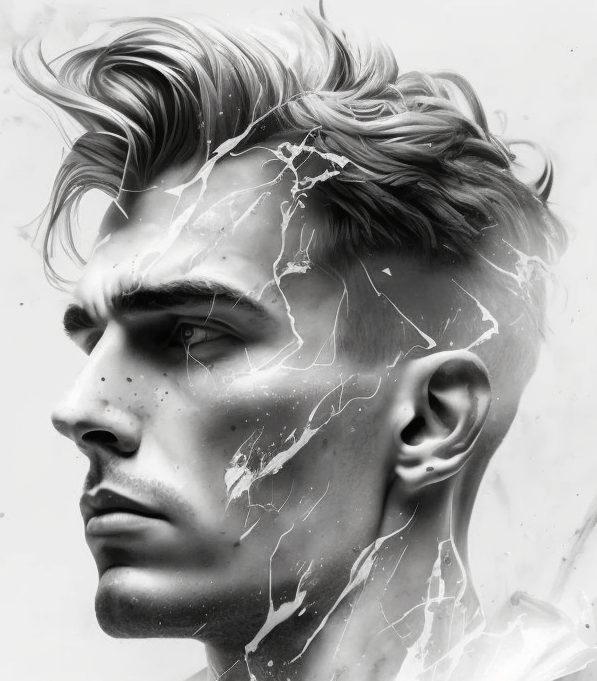
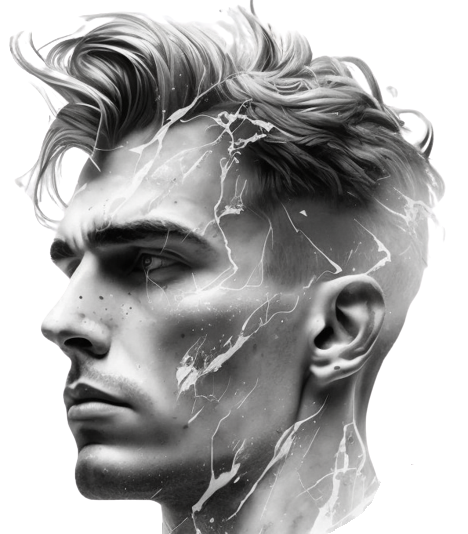
commit

diff --git a/assets/style/style.css b/assets/style/style.css
@@ -1,35 +1,143 @@
-body{
-    background-image: url('../img/Fond-marbre.png');
-    background-size: cover;
-    height: 100vh;
-}
-
 *{
     margin:0;
     padding:0;
 }
 
-h1{
-    font-size: 6rem;
+body{
+    overflow: hidden;
 }
 
-p{
-    font-size: 3rem;
-}
+/* Section header */
 
 header{
-    display: flex;
-    align-items: center;
-    justify-content: center;
+    background-image: url('../img/Fond-marbre.png');
+    background-size: cover;
     height: 100vh;
 }
 
-.name{
+header ul{
     display: flex;
-    align-items: center;
-    flex-direction: column;
+    gap: 5rem;
+    list-style-type: none;
 }
 
-.name, .portrait{
-    width:50vw;
+nav{
+    font-family: 'Inter';
+    font-size: 22px;
+    padding: 1.8rem;
+    position: relative;
+    height: 2%;
 }
+
+a{
+    color:inherit;
+    text-decoration: inherit;
+}
+
+nav::after{
+    position: absolute;
+    content: "";
+    height: 2px;
+    background-color: #242424;
+    width: 90%;
+    top: 85%;    
+}
+
+
+
+
+.headerLeft{
+/* background: url(../img/simone-pellegrini-L3QG_OBluT0-unsplash-removebg.png);
+background-position: 0% 100%;
+background-size:60%;
+background-repeat: no-repeat; */
+width:55vw;
+height: 100%;
+position: relative;
+
+}
+
+.headerLeft img{
+    position: absolute;
+    z-index: 3;
+    bottom: 0px;
+    left:0px;
+    width: 37vw;
+    filter: drop-shadow(52px 4px 4px rgba(0,0,0,0.25)) !important;
+}
+
+.blackSquare{
+    position: absolute;
+    width: 40vw;
+    height: 40vw;
+    padding: 60px;
+    box-shadow: 0 5px 15px rgba(0, 0, 0, 0.5);
+    background-color: #202020;
+    border-radius: 100%;
+    bottom: -100px;
+    left:-50px;
+    z-index: 2;
+}
+
+.whiteSquare{
+    position: absolute;
+    width: 41vw;
+    height: 41vw;
+    padding: 60px;
+    background-color: rgba(0, 0, 0, 0);
+    border: white 3px solid;
+    border-radius: 100%;
+    bottom: -70px;
+    left:-20px;
+    z-index: 1;
+}
+
+.headerRight{
+    width:45vw;
+    font-family: 'Garet', sans-serif;
+}
+
+.h1{
+    text-transform: uppercase;
+    font-size: 7rem;
+    position: relative;
+    text-shadow: 3px 3px 5px rgb(106, 106, 106);
+}
+
+.h1::after{
+    content: '';
+    position: absolute;
+    content: "";
+    height: 4px;
+    background-color: #242424;
+    bottom: 0;
+    left: 0;
+}
+
+.firstname{
+    padding-top: 3rem;
+}
+
+.firstname::after{
+    width: 32%;
+}
+.lastname::after{
+    width: 40%;
+}
+
+.h2{
+    font-size: 4.5rem;
+    text-shadow: 3px 3px 5px rgb(106, 106, 106);
+}
+
+.text{
+    padding-right: 10vw;
+    padding-top: 25px;
+}
+
+.headerMain{
+    display: flex;
+    height:94%
+
+}
+

diff --git a/index.html b/index.html
@@ -5,18 +5,50 @@
     <meta name="viewport" content="width=device-width, initial-scale=1.0">
     <link rel="stylesheet" href="./assets/style/style.css">
     <script async src="./assets/javascript/script.js"></script>
+    <link href='https://fonts.googleapis.com/css?family=Inter' rel='stylesheet'>
+    <link href="https://fonts.cdnfonts.com/css/garet?styles=96115" rel="stylesheet">
+                
     <title>Yoann Nicosia - CV Numérique</title>
 </head>
 <body id="body">
-    <header>
-        <div id="votreElement" class="name">
-            <h1 class="slide-in">Yoann <br>Nicosia</h1>
-            <p>Développeur Web</p>
+    <header>   
+        <!-- navbar -->
+        <nav>
+            <ul>
+                <a href="#"><li>ABOUT ME</li></a>
+                <a href="#"><li>SKILLS</li></a>
+                <a href="#"><li>WORK</li></a>
+            </ul>
+        </nav>
+        <!-- Header main content -->
+        <div class="headerMain">
+            <div class="headerLeft">
+                <img src="./assets/img/simone-pellegrini-L3QG_OBluT0-unsplash-removebg2.png">
+                <div class="blackSquare">
+                </div>
+                <div class="whiteSquare">
+                </div>
+                <!-- <div class="blackSquare2 blackSquare">
+                </div>
+                <div class="whiteSquare1 whiteSquare">
+                </div>
+                 -->
+            </div>
+            <div class="headerRight">
+                <p class="h1 firstname">Yoann</p>
+                <p class="h1 lastname">Nicosia</p>
+                <p class="h2">Développeur Web</p>
+
+                <p class="text">Lorem ipsum dolor sit amet consectetur. Morbi pulvinar quis pretium consequat amet pharetra amet eget. Mattis iaculis nulla mattis amet netus a nunc neque. Egestas commodo in sed nascetur. Tristique duis hac laoreet adipiscing commodo ac enim. Libero quis in viverra auctor sit amet. Odio molestie sollicitudin nullam morbi sed commodo tincidunt. Fermentum pellentesque ipsum nec facilisi lorem fermentum elementum. Gravida tristique at dictum est cras nunc pretium non. Viverra fusce quis tristique proin facilisis.</p>
+            </div>
         </div>
-        <div class="portrait">
-            <img src="./assets/img/portrait.png">
-        </div>
-    </header>    
-    <!-- <div style="height:20vh;"></div> -->
+    </header>
+
+
+
+    <main>
+        <section></section>
+    </main>
+    <footer></footer>
 </body>
 </html>
